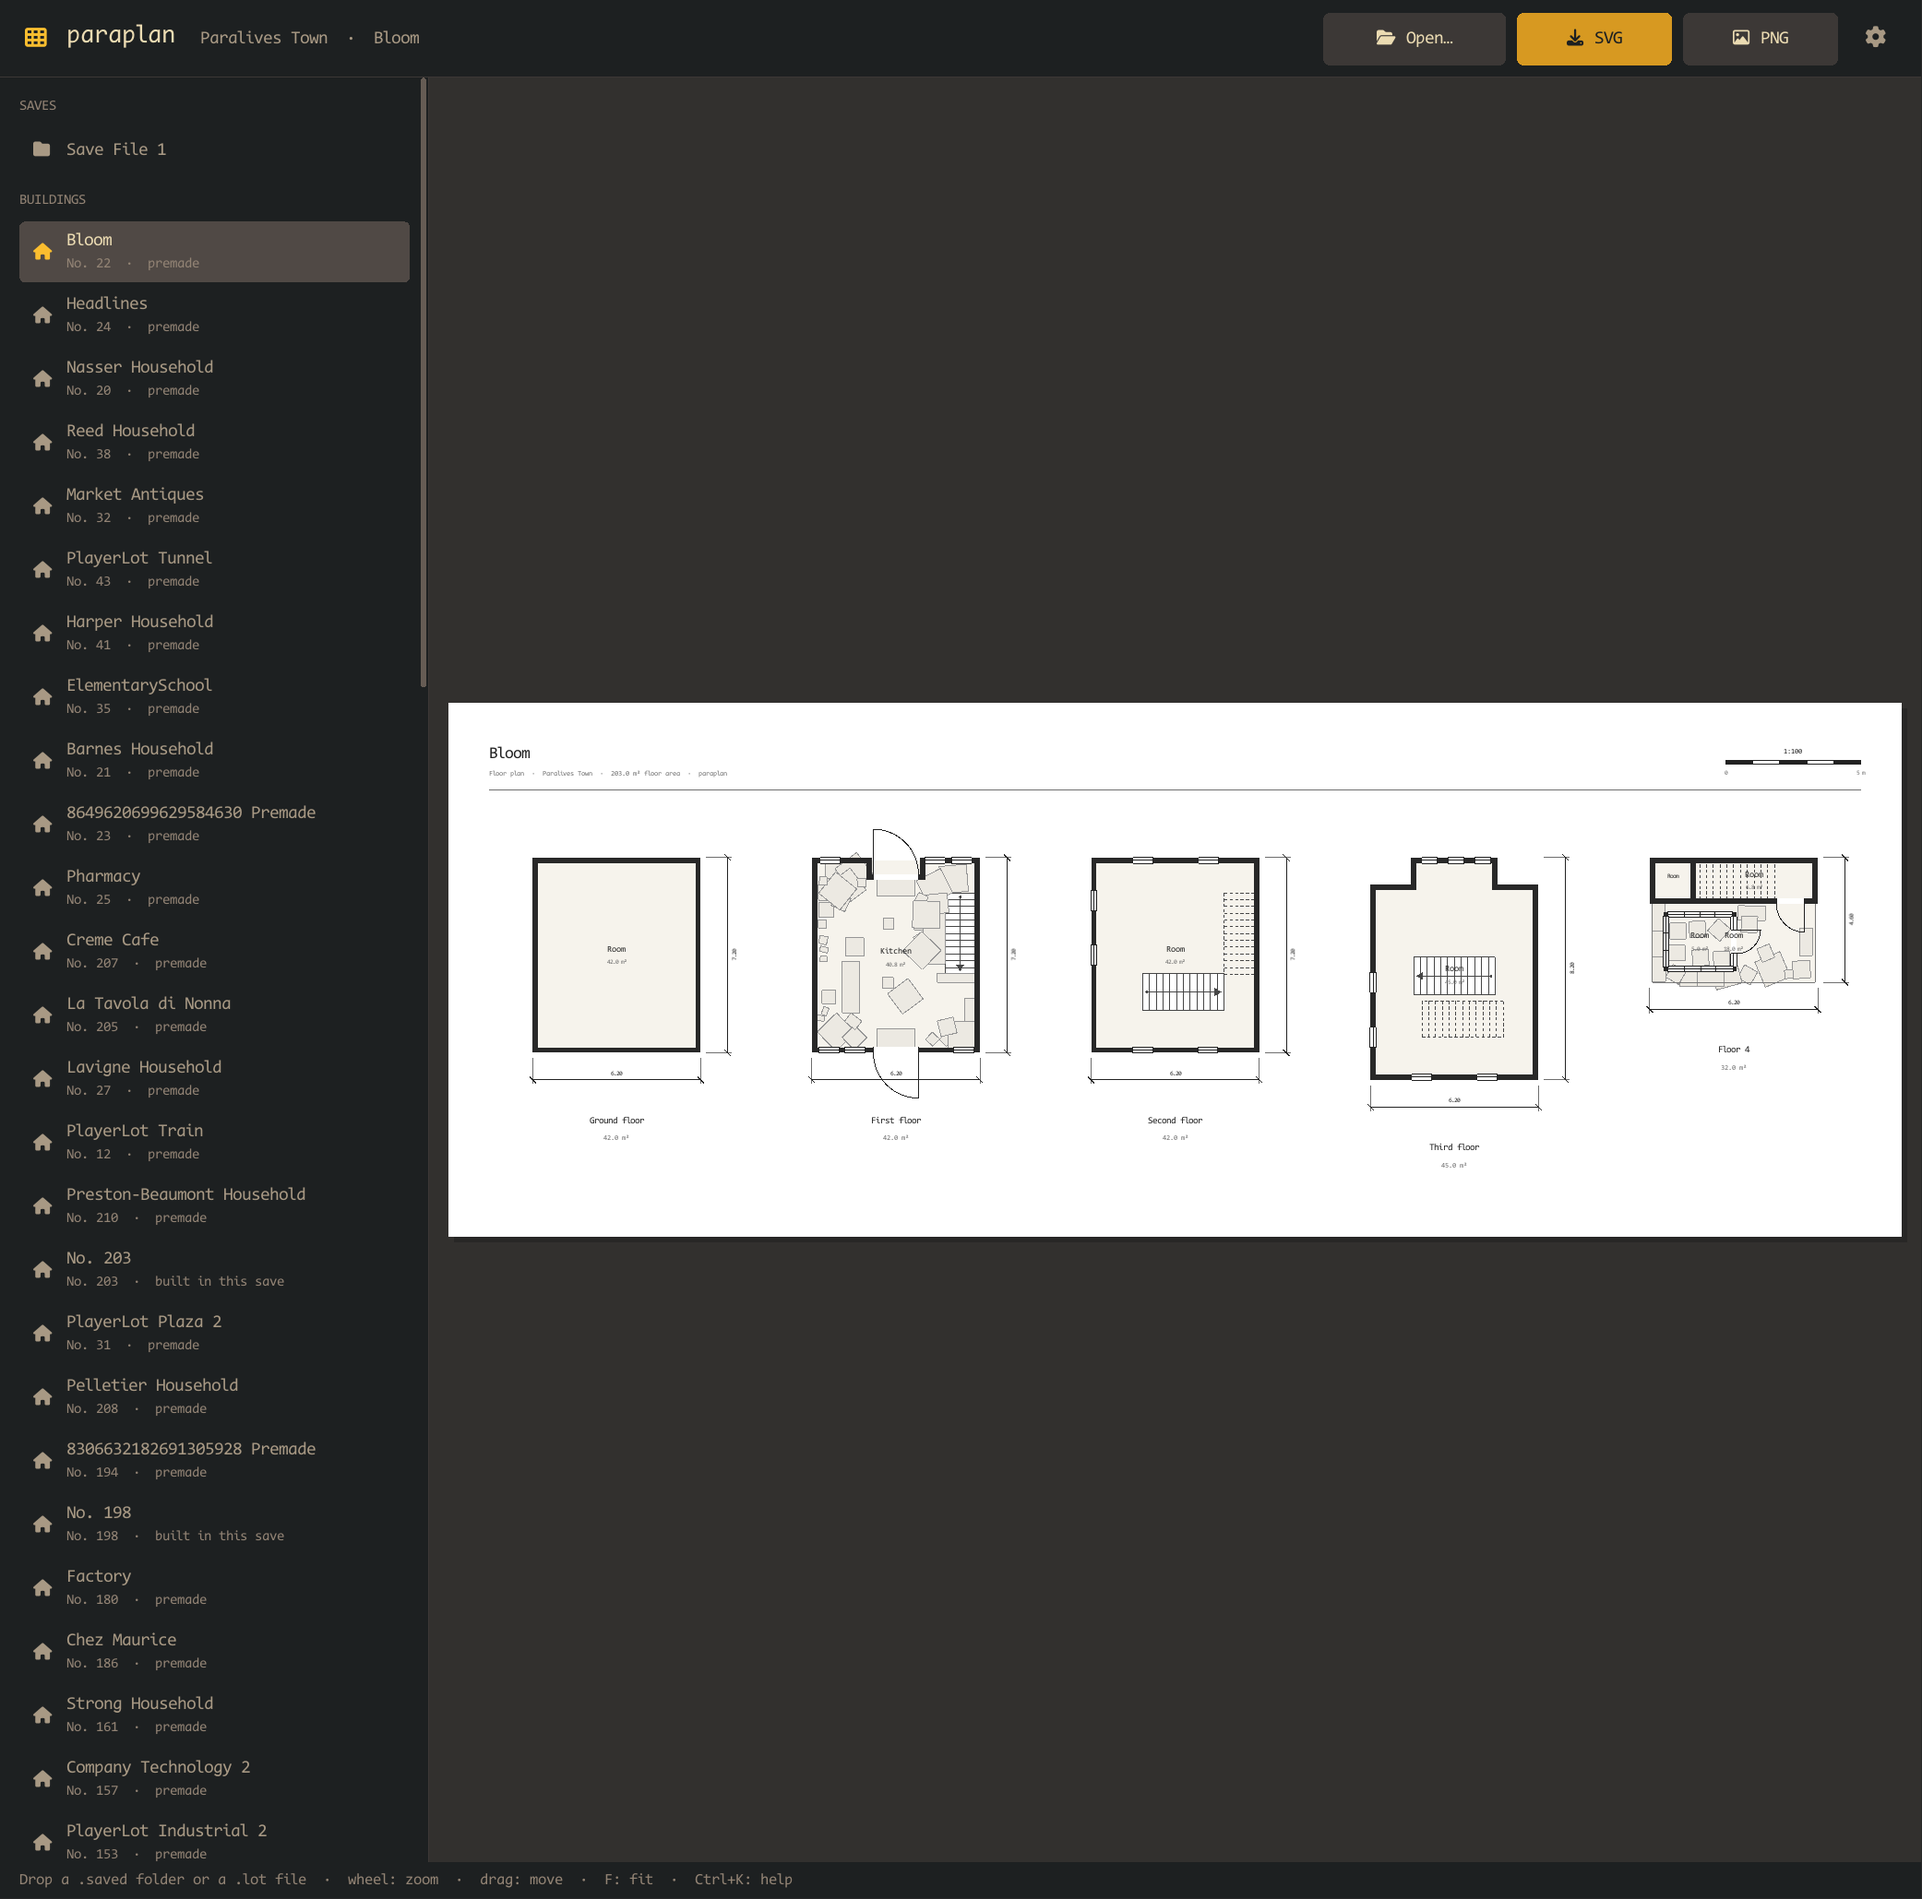
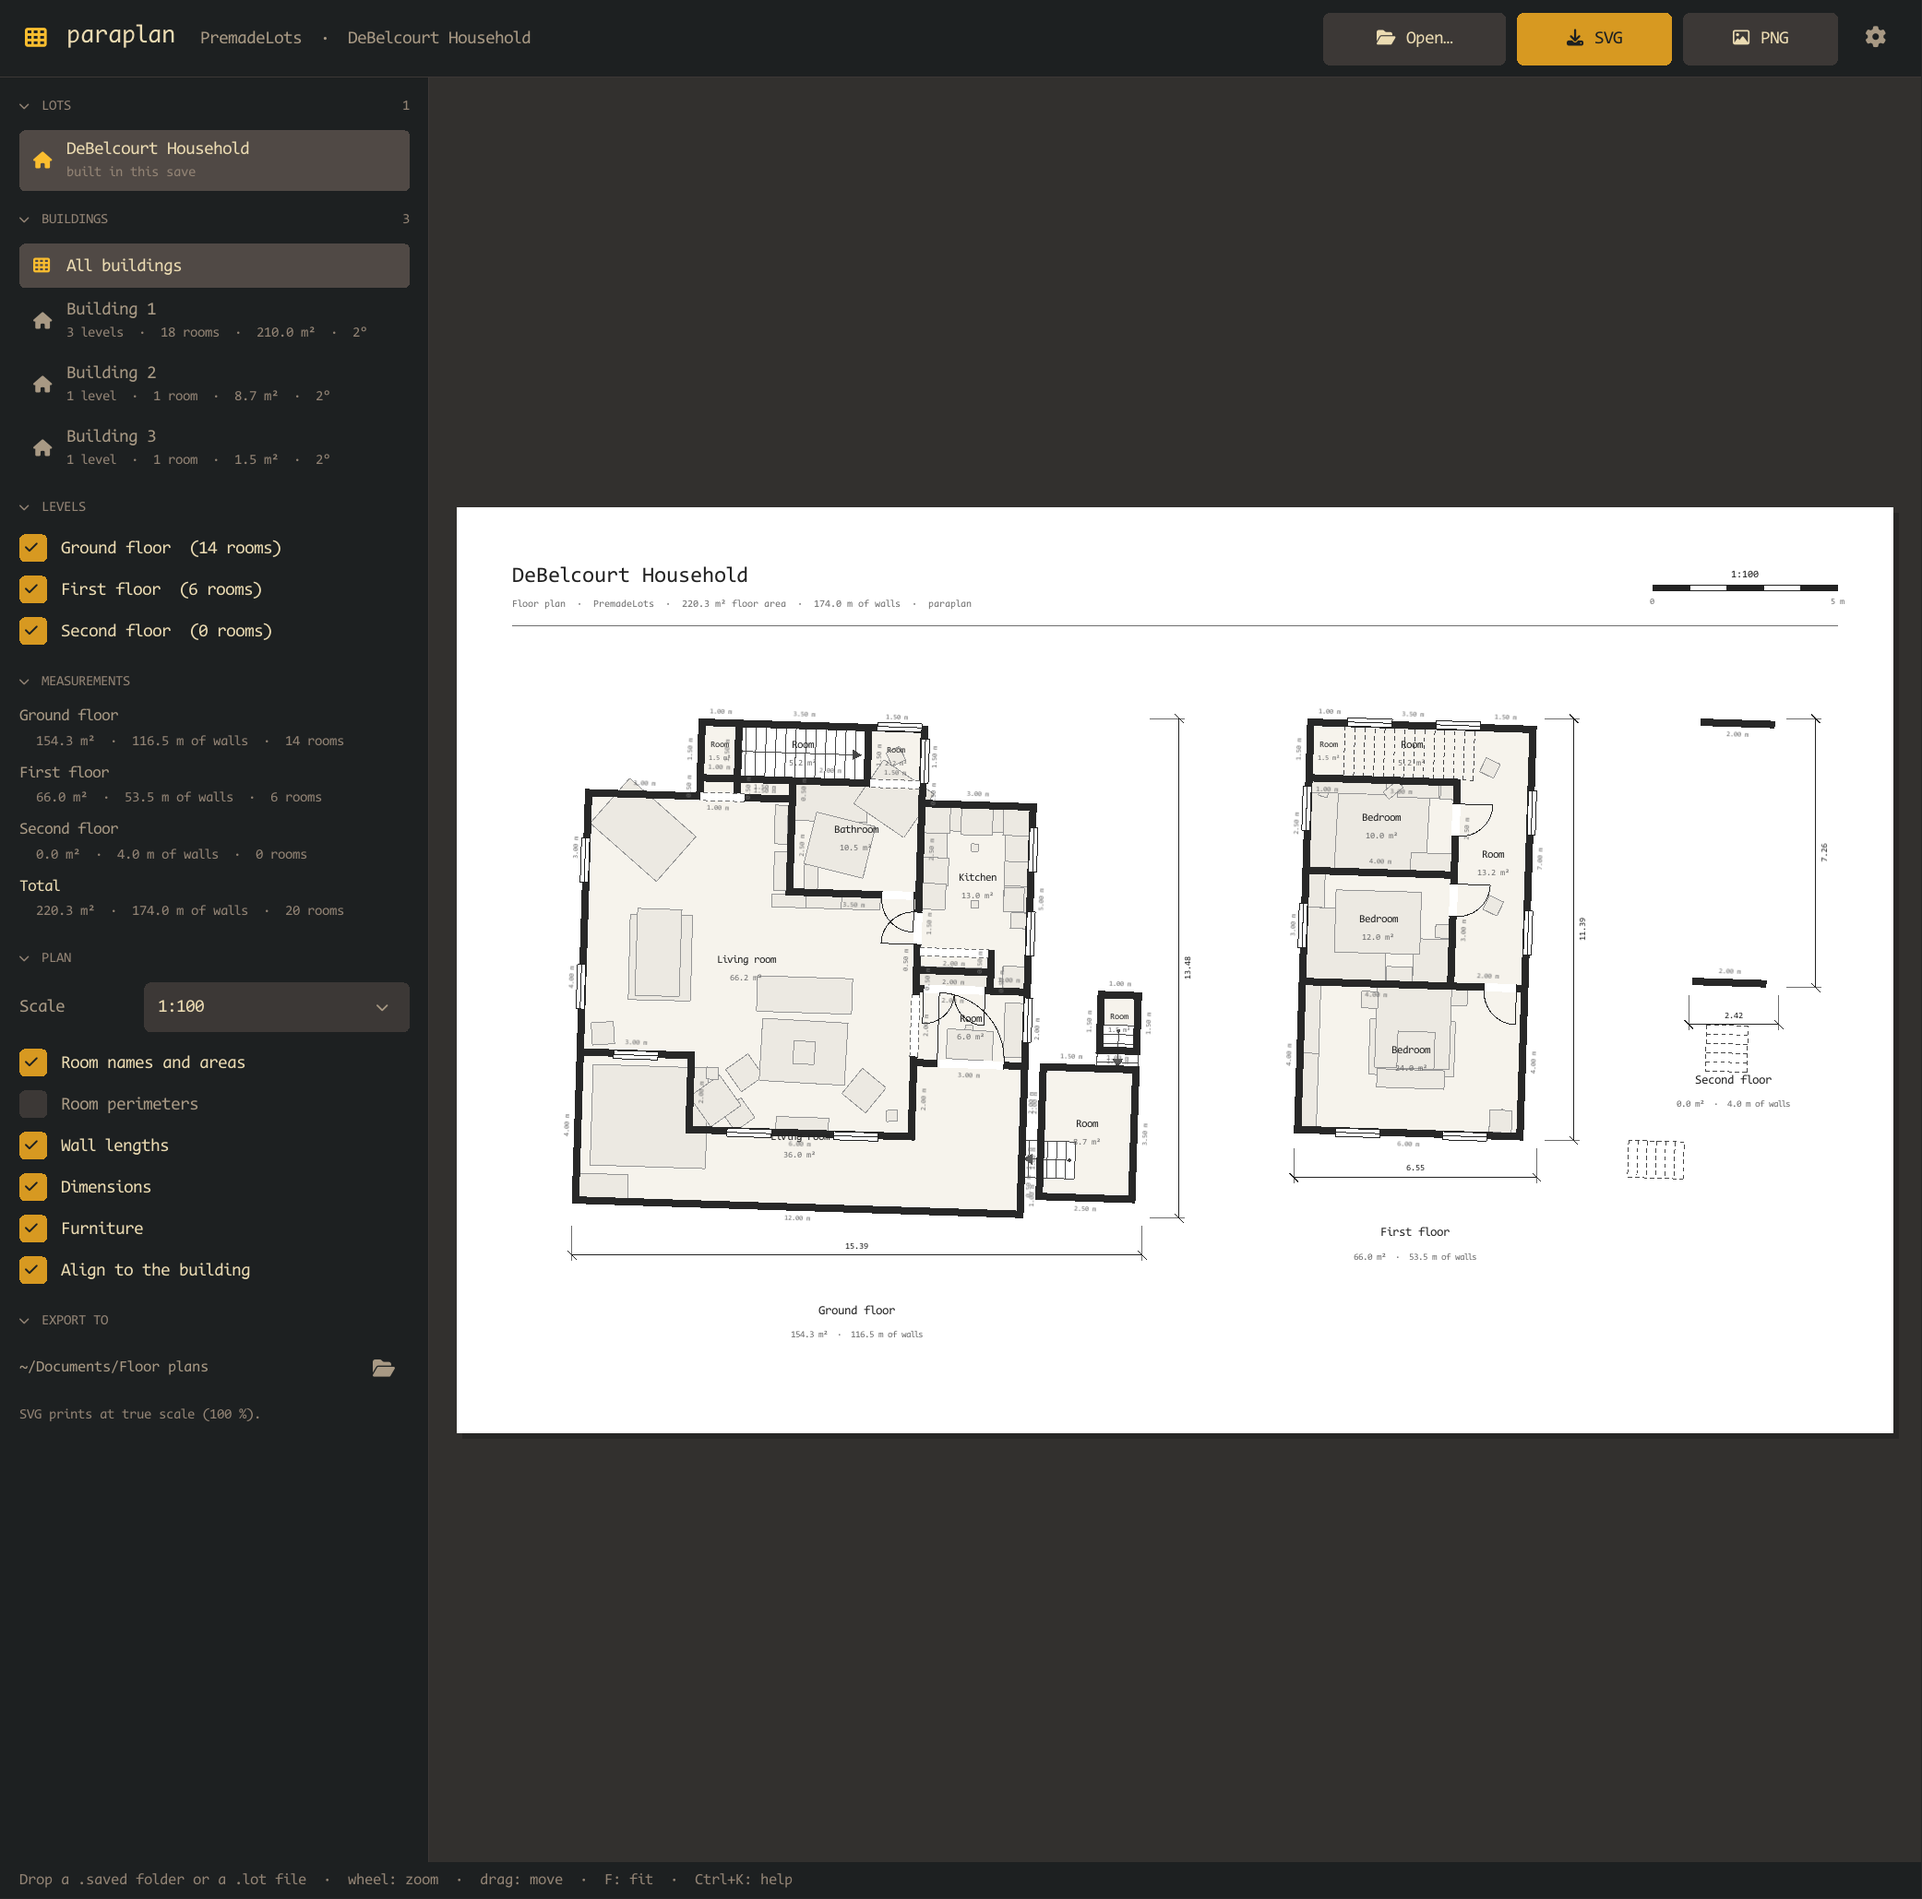
README screenshot (buildings, wall lengths, measurements); untouched view re-fits on resize; single .lot named after its folder; version 1.0.2

diff --git a/README.md b/README.md
@@ -6,7 +6,7 @@
 <p align="center"><b>Paralives save → floor plans</b> · real, printable plans of the houses in your game</p>
 
 <p align="center">
-  <img src="docs/screenshot.png" width="720" alt="paraplan showing a four-storey premade house as a floor plan sheet">
+  <img src="docs/screenshot.png" width="720" alt="paraplan showing a premade house with three buildings, wall lengths and the measurements panel">
 </p>
 
 paraplan reads a **Paralives** save and draws its buildings as proper architectural floor plans: walls at their
